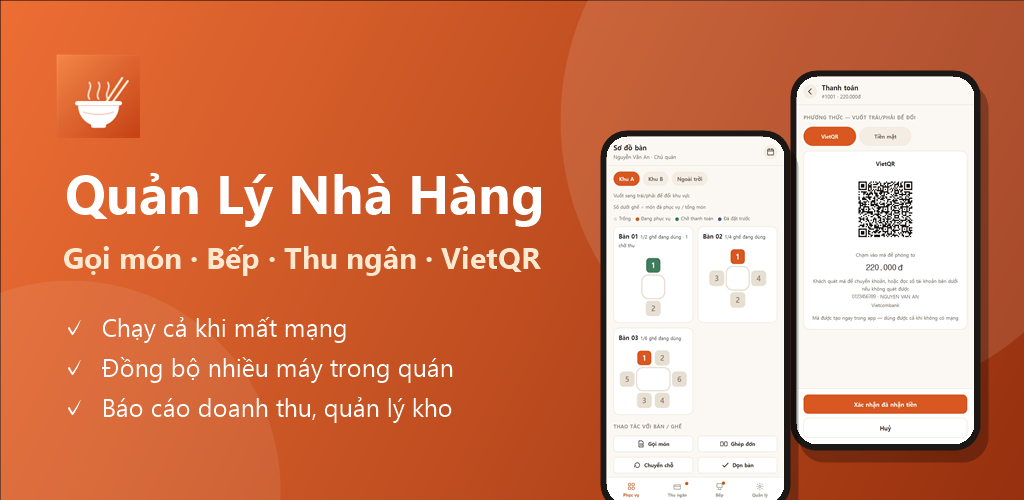
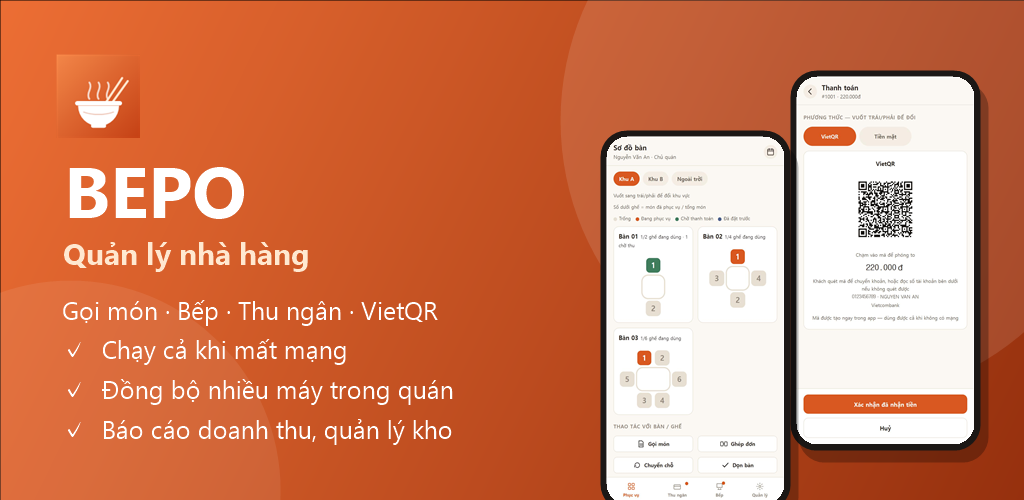
Đổi tên app thành BEPO - Quản lý nhà hàng
- Tên dưới biểu tượng: BEPO; tiêu đề cửa hàng: BEPO - Quản lý nhà hàng (23 ký tự)
- Màn thiết lập, thông báo nền, tiêu đề trang, báo cáo, chính sách bảo mật, trang xoá tài khoản, bài đăng cửa hàng, ảnh bìa 1024x500 theo tên mới

Changed region(s): [[0.0625, 0.6, 0.4375, 0.9], [0.0625, 0.33, 0.5312, 0.45], [0.0625, 0.48, 0.5312, 0.57]]

diff --git a/play-listing/chinh-sach-bao-mat.html b/play-listing/chinh-sach-bao-mat.html
@@ -3,7 +3,7 @@
 <head>
 <meta charset="utf-8">
 <meta name="viewport" content="width=device-width,initial-scale=1">
-<title>Chính sách bảo mật — Quản Lý Nhà Hàng</title>
+<title>Chính sách bảo mật — BEPO - Quản lý nhà hàng</title>
 <!-- GHI CHÚ CHO CHỦ DỰ ÁN: kiểm tra lại tên nhà phát triển và email liên hệ (tìm "TVT Group" và "tvtgroup.support@gmail.com") trước khi đăng.
      Trang này được đăng lên GitHub Pages cùng trang gọi món (xem scripts/build-guest-page.mjs). -->
 <style>
@@ -27,12 +27,12 @@
 <body>
 <main>
   <h1>Chính sách bảo mật</h1>
-  <p class="muted">Ứng dụng <b>Quản Lý Nhà Hàng</b> (gói ứng dụng <code>vn.quanly.nhahang.play</code>) · Nhà phát triển: <b>TVT Group</b> · Cập nhật lần cuối: 09/10/2026</p>
+  <p class="muted">Ứng dụng <b>BEPO - Quản lý nhà hàng</b> (gói ứng dụng <code>vn.quanly.nhahang.play</code>) · Nhà phát triển: <b>TVT Group</b> · Cập nhật lần cuối: 09/10/2026</p>
 
   <p>Tài liệu này giải thích ứng dụng thu thập, lưu trữ và sử dụng những thông tin nào. Điều quan trọng nhất: <b>dữ liệu bán hàng của quán (đơn hàng, thực đơn, doanh thu, kho, nhân viên) nằm trên điện thoại của quán và trong dự án Supabase riêng do chính chủ quán sở hữu — nhà phát triển không truy cập được phần này.</b> Nhà phát triển chỉ lưu một lượng rất nhỏ thông tin để quản lý tài khoản và gói cước.</p>
 
   <h2>1. Ứng dụng này là gì</h2>
-  <p>Quản Lý Nhà Hàng là ứng dụng dành cho chủ quán và nhân viên: sơ đồ bàn, gọi món, màn hình bếp, thu ngân, mã QR thanh toán VietQR, kho nguyên liệu, báo cáo. Ứng dụng hoạt động cả khi không có Internet và tự đồng bộ giữa các máy trong quán khi có mạng. Ứng dụng <b>không dành cho trẻ em</b> dưới 13 tuổi.</p>
+  <p>BEPO - Quản lý nhà hàng là ứng dụng dành cho chủ quán và nhân viên: sơ đồ bàn, gọi món, màn hình bếp, thu ngân, mã QR thanh toán VietQR, kho nguyên liệu, báo cáo. Ứng dụng hoạt động cả khi không có Internet và tự đồng bộ giữa các máy trong quán khi có mạng. Ứng dụng <b>không dành cho trẻ em</b> dưới 13 tuổi.</p>
 
   <h2>2. Thông tin chúng tôi thu thập và lưu</h2>
   <h3>2.1. Do nhà phát triển (TVT Group) lưu — máy chủ Supabase trung tâm</h3>

diff --git a/play-listing/xoa-tai-khoan.html b/play-listing/xoa-tai-khoan.html
@@ -3,7 +3,7 @@
 <head>
 <meta charset="utf-8">
 <meta name="viewport" content="width=device-width,initial-scale=1">
-<title>Xoá tài khoản — Quản Lý Nhà Hàng</title>
+<title>Xoá tài khoản — BEPO - Quản lý nhà hàng</title>
 <!-- Địa chỉ trang này điền vào Play Console → Nội dung ứng dụng → An toàn dữ liệu → "Liên kết xoá tài khoản".
      Kiểm tra lại email liên hệ (tvtgroup.support@gmail.com) trước khi đăng. -->
 <style>
@@ -27,7 +27,7 @@
 <body>
 <main>
   <h1>Xoá tài khoản và dữ liệu</h1>
-  <p class="muted">Ứng dụng <b>Quản Lý Nhà Hàng</b> · Nhà phát triển: TVT Group</p>
+  <p class="muted">Ứng dụng <b>BEPO - Quản lý nhà hàng</b> · Nhà phát triển: TVT Group</p>
 
   <h2>Cách 1 — Xoá ngay trong ứng dụng (nhanh nhất)</h2>
   <ol>
@@ -41,7 +41,7 @@
   <h2>Cách 2 — Gửi yêu cầu qua email</h2>
   <p>Nếu bạn không còn truy cập được ứng dụng, hãy gửi email từ <b>chính địa chỉ email đã đăng ký tài khoản</b> tới:</p>
   <div class="box"><a href="mailto:tvtgroup.support@gmail.com?subject=Yeu%20cau%20xoa%20tai%20khoan%20Quan%20Ly%20Nha%20Hang">tvtgroup.support@gmail.com</a><br>
-    <span class="muted">Tiêu đề gợi ý: “Yêu cầu xoá tài khoản Quản Lý Nhà Hàng”. Chúng tôi xác minh và xử lý trong vòng 30 ngày.</span></div>
+    <span class="muted">Tiêu đề gợi ý: “Yêu cầu xoá tài khoản BEPO”. Chúng tôi xác minh và xử lý trong vòng 30 ngày.</span></div>
 
   <h2>Dữ liệu nào bị xoá, dữ liệu nào được giữ</h2>
   <table>

diff --git a/src/web/reports.js b/src/web/reports.js
@@ -129,7 +129,7 @@ function buildStyledWorkbook(kind, rows, range) {
   const headers = headers0.map(repTr), data = data0.map(r => r.map(repTr));
   const currencyIdx = REPORT_CURRENCY_IDX[kind] || [];
   const wb = new ExcelJS.Workbook();
-  wb.creator = DB.restaurant.name || trText('Quản Lý Nhà Hàng');
+  wb.creator = DB.restaurant.name || 'BEPO';
   wb.created = new Date();
   const ws = wb.addWorksheet(trText(REPORT_TITLES[kind]).slice(0, 31), { views: [{ state: 'frozen', ySplit: 5 }] });
   ws.columns = headers.map(() => ({ width: 14 }));
@@ -139,7 +139,7 @@ function buildStyledWorkbook(kind, rows, range) {
     const c = ws.getCell(row, 1);
     c.value = text; c.font = font; c.alignment = { horizontal: 'center', vertical: 'middle' };
   };
-  titleCell(1, DB.restaurant.name || 'Quản Lý Nhà Hàng', { size: 14, bold: true, color: { argb: BRAND_ARGB } });
+  titleCell(1, DB.restaurant.name || 'BEPO', { size: 14, bold: true, color: { argb: BRAND_ARGB } });
   titleCell(2, trText(REPORT_TITLES[kind]), { size: 12, bold: true });
   titleCell(3, REPORT_RANGED[kind]
     ? `${range.label}  ·  ${trText('Xuất lúc')} ${new Date().toLocaleString(repLocale())}`

diff --git a/src/cloud/views-cloud.js b/src/cloud/views-cloud.js
@@ -31,7 +31,7 @@ function vSetup() {
   return `<div class="screen"><div class="body" style="justify-content:center;padding:28px 22px;gap:14px">
     <div style="text-align:center;margin-bottom:10px">
       <div style="width:60px;height:60px;border-radius:17px;background:var(--accent);display:flex;align-items:center;justify-content:center;margin:0 auto;font-size:28px">🍜</div>
-      <div class="t-lg" style="margin-top:12px">Quản Lý Nhà Hàng</div>
+      <div class="t-lg" style="margin-top:12px">BEPO</div><div class="t-sm muted">Quản lý nhà hàng</div>
       <div class="t-xs" style="margin-top:4px">Thiết lập thiết bị này</div>
     </div>
     ${notice ? `<div class="card" style="background:var(--amber-soft);border-color:var(--amber)"><div class="t-sm" style="color:var(--amber);line-height:1.6">${esc(notice)}</div></div>` : ''}

diff --git a/src/native/bridge.js b/src/native/bridge.js
@@ -223,7 +223,7 @@ const alerts = isNative ? {
       if (on && !_fgOn) {
         if (!(await this.init())) return;
         await ForegroundService.startForegroundService({
-          id: 7001, title: 'Quản Lý Nhà Hàng', body: 'Đang nhận thông báo khách gọi và món mới',
+          id: 7001, title: 'BEPO', body: 'Đang nhận thông báo khách gọi và món mới',
           smallIcon: 'ic_stat_notify', notificationChannelId: 'nen', silent: true, serviceType: 1   // 1 = dataSync
         });
         _fgOn = true;

diff --git a/admin/index.html b/admin/index.html
@@ -3,7 +3,7 @@
 <head>
 <meta charset="utf-8">
 <meta name="viewport" content="width=device-width,initial-scale=1">
-<title>Quản trị gói cước — Quản Lý Nhà Hàng</title>
+<title>Quản trị gói cước — BEPO - Quản lý nhà hàng</title>
 <style>
   :root { --accent:#D9581F; --ink:#1A1613; --muted:#6b645d; --line:#e6e0d8; --bg:#FBF8F3; --green:#3F7D5C; --red:#AB3D31; --amber:#93701A; }
   * { box-sizing: border-box; }

diff --git a/README.md b/README.md
@@ -1,4 +1,4 @@
-# Quản Lý Nhà Hàng — app Android (v4.0)
+# BEPO - Quản lý nhà hàng — app Android (v4.0)
 
 Lưu dữ liệu **cục bộ trên điện thoại** (SQLite), khi có mạng **tự đồng bộ** lên Supabase **riêng của quán**
 để chia sẻ với các máy khác. Gói cước do **một Supabase trung tâm của bạn** quản lý.
